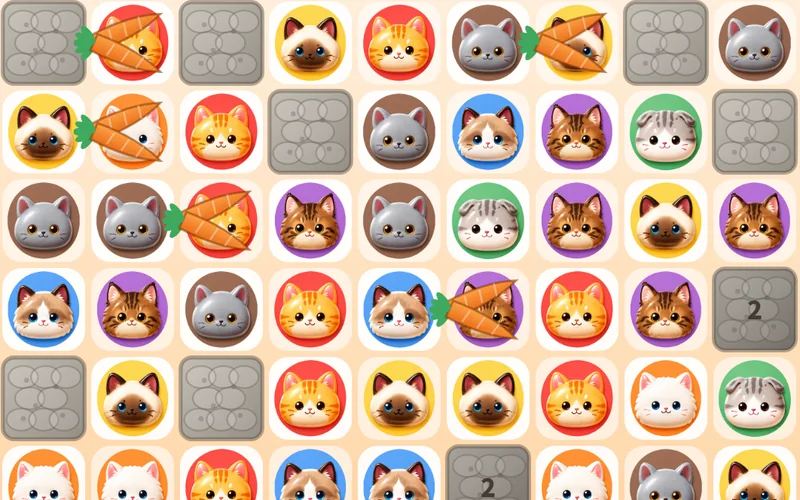
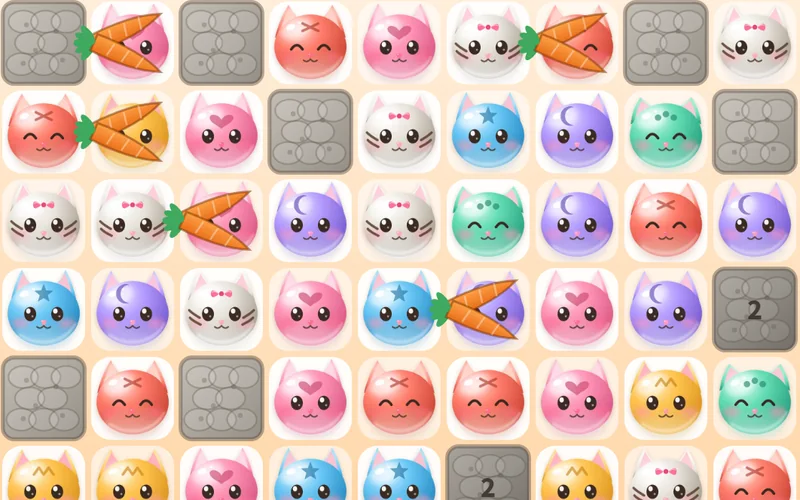
오름냥 고양이를 직접 그린 마시멜로 버전으로 되돌림
사진 같은 원형 타일 대신, 앞서 그렸던 마시멜로 고양이로 돌아간다.
(뾰족한 큰 귀 + 이마 무늬 일곱 가지 + 태비냥 분홍 리본 + 무지개냥)

- 그림은 webp 그대로. 8장 128KB
- cats.js CAT_VER 를 올려 옛 그림이 남지 않게
- 카드·링크미리보기 사진도 다시 찍어 ?v=5 로

동그란 얼굴이라 칸 모서리로 오름(초록 층)이 그대로 비친다.

diff --git a/games/mini/oreumnyang/index.html b/games/mini/oreumnyang/index.html
@@ -11,12 +11,12 @@
 <meta property="og:description" content="오름냥 - 가볍게 즐기는 퍼즐게임! 한판만 하려다 어느새 101판째! 설치도 회원가입도 없이 브라우저에서 바로 하는 웹게임. 고양이 3매치 200판.">
 <meta property="og:type" content="website">
 <meta property="og:url" content="https://oreumgames.com/games/mini/oreumnyang/">
-<meta property="og:image" content="https://oreumgames.com/assets/oreumnyang-og.webp?v=4">
+<meta property="og:image" content="https://oreumgames.com/assets/oreumnyang-og.webp?v=5">
 <meta name="twitter:card" content="summary_large_image">
 <meta name="twitter:title" content="오름냥 - 제주 고양이 퍼즐 200판">
 <meta name="twitter:description" content="오름냥 - 가볍게 즐기는 퍼즐게임! 한판만 하려다 어느새 101판째! 설치도 회원가입도 없이 브라우저에서 바로 하는 웹게임. 고양이 3매치 200판.">
-<meta name="twitter:image" content="https://oreumgames.com/assets/oreumnyang-og.webp?v=4">
-<link rel="stylesheet" href="style.css?v=20260820f">
+<meta name="twitter:image" content="https://oreumgames.com/assets/oreumnyang-og.webp?v=5">
+<link rel="stylesheet" href="style.css?v=20260820g">
 </head>
 <body>
 
@@ -138,12 +138,12 @@
   </div>
 </div>
 
-<script src="js/i18n.js?v=20260820f"></script>
-<script src="js/audio.js?v=20260820f"></script>
-<script src="js/cats.js?v=20260820f"></script>
-<script src="js/stages.js?v=20260820f"></script>
-<script src="js/game.js?v=20260820f"></script>
-<script src="js/main.js?v=20260820f"></script>
+<script src="js/i18n.js?v=20260820g"></script>
+<script src="js/audio.js?v=20260820g"></script>
+<script src="js/cats.js?v=20260820g"></script>
+<script src="js/stages.js?v=20260820g"></script>
+<script src="js/game.js?v=20260820g"></script>
+<script src="js/main.js?v=20260820g"></script>
 <script src="/assets/game-home.js" defer></script>
 </body>
 </html>

diff --git a/games/mini/index.html b/games/mini/index.html
@@ -95,7 +95,7 @@
 
         <li class="card" id="oreumnyang">
           <a class="card-shot" href="oreumnyang/?lang=ko">
-            <img src="/assets/oreumnyang-shot.webp?v=4" alt="색색의 고양이 얼굴이 격자로 채워진 퍼즐판. 회색 돌담과 당근이 군데군데 섞여 있다" loading="lazy" width="800" height="500">
+            <img src="/assets/oreumnyang-shot.webp?v=5" alt="색색의 고양이 얼굴이 격자로 채워진 퍼즐판. 회색 돌담과 당근이 군데군데 섞여 있다" loading="lazy" width="800" height="500">
           </a>
           <div class="card-body">
             <h3><a href="oreumnyang/?lang=ko">오름냥</a></h3>

diff --git a/en/games/mini/index.html b/en/games/mini/index.html
@@ -98,7 +98,7 @@
 
         <li class="card" id="oreumnyang">
           <a class="card-shot" href="/games/mini/oreumnyang/?lang=en">
-            <img src="/assets/oreumnyang-shot.webp?v=4" alt="A grid of colourful cat faces with grey stone blocks and carrots mixed in" loading="lazy" width="800" height="500">
+            <img src="/assets/oreumnyang-shot.webp?v=5" alt="A grid of colourful cat faces with grey stone blocks and carrots mixed in" loading="lazy" width="800" height="500">
           </a>
           <div class="card-body">
             <h3><a href="/games/mini/oreumnyang/?lang=en">Oreumnyang</a></h3>

diff --git a/index.html b/index.html
@@ -145,7 +145,7 @@
       <ul class="mini-cards">
         <li class="mini-card">
           <a href="/games/mini/#oreumnyang">
-            <img src="/assets/oreumnyang-shot.webp?v=4" alt="" loading="lazy" width="104" height="65">
+            <img src="/assets/oreumnyang-shot.webp?v=5" alt="" loading="lazy" width="104" height="65">
             <span class="mini-body">
               <span class="mini-t">오름냥</span>
               <span class="mini-s">제주 3매치 퍼즐 · PC·모바일</span>

diff --git a/en/index.html b/en/index.html
@@ -144,7 +144,7 @@
       <ul class="mini-cards">
         <li class="mini-card">
           <a href="/en/games/mini/#oreumnyang">
-            <img src="/assets/oreumnyang-shot.webp?v=4" alt="" loading="lazy" width="104" height="65">
+            <img src="/assets/oreumnyang-shot.webp?v=5" alt="" loading="lazy" width="104" height="65">
             <span class="mini-body">
               <span class="mini-t">Oreumnyang</span>
               <span class="mini-s">Jeju match-3 puzzle · PC·phone</span>

diff --git a/games/mini/oreumnyang/js/cats.js b/games/mini/oreumnyang/js/cats.js
@@ -55,7 +55,7 @@
      목록 파일이 없으면 예전처럼 8장을 하나씩 찾아본다. */
   /* 고양이 그림을 바꾸면 이 날짜를 올린다.
      안 올리면 예전에 왔던 사람 브라우저가 옛 그림을 계속 쓴다. */
-  var CAT_VER = '20260820c';
+  var CAT_VER = '20260820d';
   /* webp 로 바꿨다. 같은 그림이 png 698KB -> webp 116KB.
      시작화면에 고양이가 늦게 뜨던 게 이 무게 탓이 컸다. */
   var CAT_EXT = '.webp';
